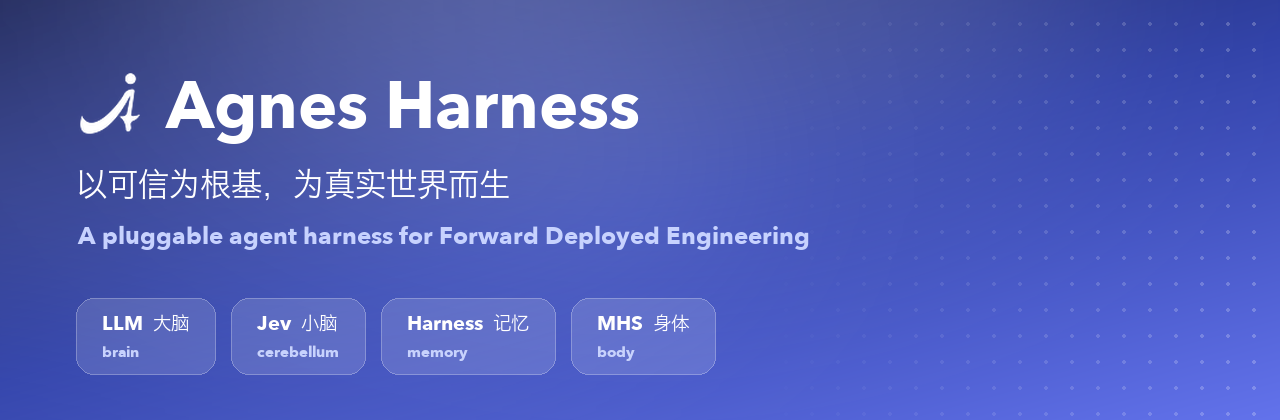
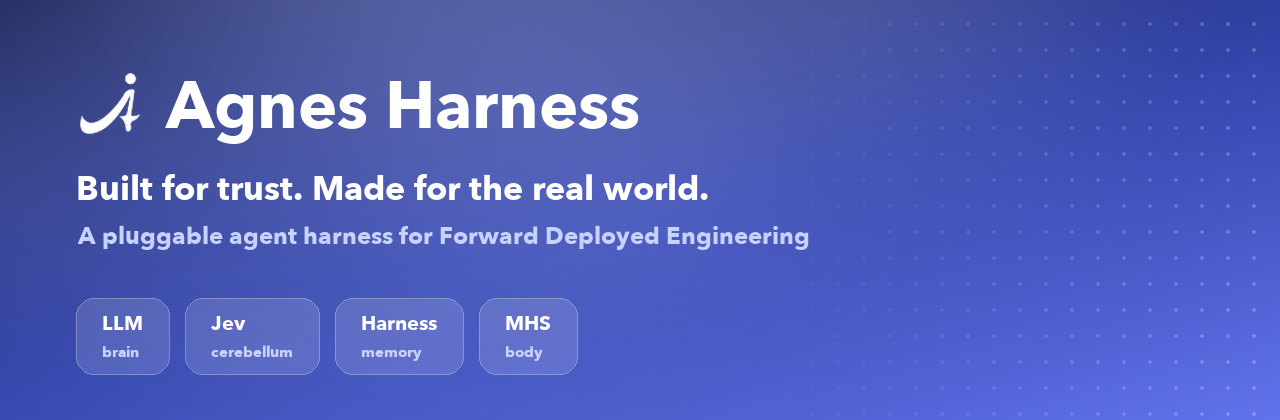
docs(readme): record the demo media again in the English interface (#291)
The English README showed GIFs, a screenshot and a banner recorded in the Chinese interface,
with bilingual captions. Record the same three flows again with the English interface and
English prompts (refund check with an approval, installing a plugin from a local source,
resuming the Web session in the terminal), and re-render the banner without Chinese. The
Chinese README keeps the original files, now named *.zh-CN.*.

diff --git a/README.md b/README.md
@@ -35,10 +35,10 @@ Developer preview (pre-alpha) · [Source build](#run-from-source) · [Apache-2.0
 Taking AI into a real deployment is rarely about the model alone. It is about the customer's systems, the people who approve the work, and the details that differ at every site. Agnes Harness (AGH) connects models, tools, task state, and business interfaces: **put the differences into plugins, let the harness run and record the work, and carry what you validated into the next deployment.**
 
 <p align="center">
-  <img src="docs/assets/readme/hero.gif" alt="AGH working in a real project: the agent reads the refund rules and order data, asks for approval before running a command, verifies the result, returns a checkable table, and records every step in the trajectory view" width="100%" />
+  <img src="docs/assets/readme/hero.gif" alt="AGH working in a real project: the agent reads the refund rules and order data, asks for approval before running a command, verifies the result, returns a checkable table, and records every step in the Trace view" width="100%" />
 </p>
 
-<p align="center"><sub>Read the code, ask before running a command, verify, answer, and record every step. The Web interface currently ships in Chinese, so captions are bilingual.</sub></p>
+<p align="center"><sub>Read the code, ask before running a command, verify, answer, and record every step.</sub></p>
 
 <details>
 <summary><kbd>Contents</kbd></summary>
@@ -123,10 +123,10 @@ CLI, Web, and SDK share the same backend sessions. Resume a Web session in the t
 
 In a customer environment, a result is not enough: you need to show how it was produced.
 
-Running a command waits for your approval by default: allow once, allow for the session, or deny. The trajectory view keeps a timeline of model calls, tools, and approvals, step by step. Package trust, tool approvals, execution constraints, and session records give the integration explicit points of control. See [security and trust](docs/guide/security.md).
+Running a command waits for your approval by default: allow once, allow for the session, or deny. The Trace view keeps a timeline of model calls, tools, and approvals, step by step. Package trust, tool approvals, execution constraints, and session records give the integration explicit points of control. See [security and trust](docs/guide/security.md).
 
 <p align="center">
-  <img src="docs/assets/readme/trajectory.png" alt="The trajectory view: a timeline of input, model and tool activity, followed by step records that include the user request, file reads, the shell command and its approval record, and the final answer" width="100%" />
+  <img src="docs/assets/readme/trajectory.png" alt="The Trace view: a timeline of input, model and tool activity, followed by step records that include the user request, file reads, the shell command and its approval record, and the final answer" width="100%" />
 </p>
 
 ### 4. Each role needs its own screen

diff --git a/docs/maintainers/maintenance.md b/docs/maintainers/maintenance.md
@@ -63,4 +63,4 @@ Keep role metaphors separate from implementation claims: the illustration shows 
 
 ## README demo media
 
-Record the banner, animations, and screenshots in [`docs/assets/readme/`](../assets/readme/) from a local instance using an isolated `AGH_HOME`, a synthetic workspace, and a configured model; keep credentials, personal paths, and customer data out of every frame. Check each answer shown on screen for correctness before using a take, and keep captions within what the guides and [known limitations](../reference/limitations.md) state. Refresh the media when the interface or a demonstrated flow changes. The animated introduction is a rendered motion graphic rather than a recording, with all-English text in `trailer.webp` for the English README and the Chinese edition in `trailer.zh-CN.webp`: when a role, its availability, or the FDE and MHS wording changes, update both editions together with the architecture illustration so they tell the same story.
+Record the banner, animations, and screenshots in [`docs/assets/readme/`](../assets/readme/) from a local instance using an isolated `AGH_HOME`, a synthetic workspace, and a configured model; keep credentials, personal paths, and customer data out of every frame. Check each answer shown on screen for correctness before using a take, and keep captions within what the guides and [known limitations](../reference/limitations.md) state. Each edition has its own set: the English README uses the English interface and English prompts (`banner.png`, `hero.gif`, `plugins.gif`, `terminal.gif`, `trajectory.png`), and the Chinese README uses the `*.zh-CN.*` files recorded in the Chinese interface. Refresh the media when the interface or a demonstrated flow changes. The animated introduction is a rendered motion graphic rather than a recording, with all-English text in `trailer.webp` for the English README and the Chinese edition in `trailer.zh-CN.webp`: when a role, its availability, or the FDE and MHS wording changes, update both editions together with the architecture illustration so they tell the same story.

diff --git a/docs/maintainers/maintenance.zh-CN.md b/docs/maintainers/maintenance.zh-CN.md
@@ -55,4 +55,4 @@ README 与架构说明共用[英文](../assets/architecture.svg)和[中文](../a
 
 ## README 演示素材
 
-[`docs/assets/readme/`](../assets/readme/) 中的横幅、动图与截图从本地实例录制，录制时使用隔离的 `AGH_HOME`、合成的示例工作区和已配置的模型；任何一帧都不得出现凭据、个人路径或客户数据。采用某次录制前，先核对画面中每个回答是否正确，字幕不超出指南与[已知限制](../reference/limitations.zh-CN.md)的表述。界面或所演示的流程变化后，需要重新录制。动画介绍是渲染出的动态图形而不是录屏：英文 README 使用全英文文字的 `trailer.webp`，中文 README 使用中文版 `trailer.zh-CN.webp`。角色、支持状态或 FDE、MHS 表述变化时，两个版本需要与架构图一起更新，保持表述一致。
+[`docs/assets/readme/`](../assets/readme/) 中的横幅、动图与截图从本地实例录制，录制时使用隔离的 `AGH_HOME`、合成的示例工作区和已配置的模型；任何一帧都不得出现凭据、个人路径或客户数据。采用某次录制前，先核对画面中每个回答是否正确，字幕不超出指南与[已知限制](../reference/limitations.zh-CN.md)的表述。两个版本各有一套素材：英文 README 使用英文界面和英文提问录制的 `banner.png`、`hero.gif`、`plugins.gif`、`terminal.gif`、`trajectory.png`，中文 README 使用中文界面录制的 `*.zh-CN.*` 文件。界面或所演示的流程变化后，需要重新录制。动画介绍是渲染出的动态图形而不是录屏：英文 README 使用全英文文字的 `trailer.webp`，中文 README 使用中文版 `trailer.zh-CN.webp`。角色、支持状态或 FDE、MHS 表述变化时，两个版本需要与架构图一起更新，保持表述一致。
